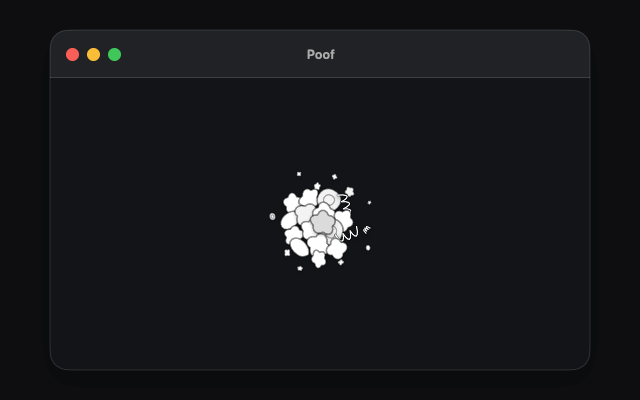
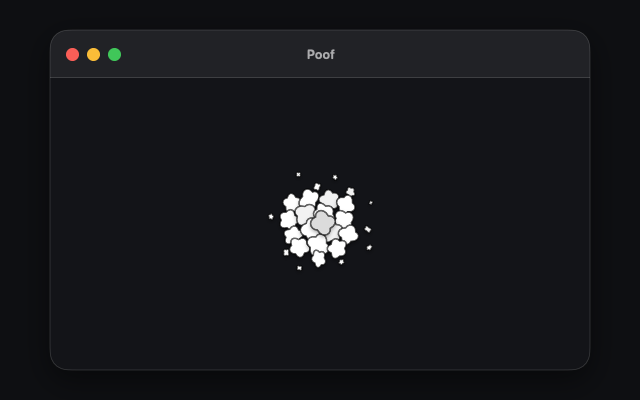
chore: regenerate media and document 1.2.0
The rendering changed, so the committed previews did. A second run of
the generator produces byte-identical output, and the hero GIFs still
hold five poses at the alternating centisecond delays that land on a
third of a second.

The design rules are updated where this release moved them: the pose
rule is scoped to stepped motion and notes that smooth is a continuous
plume rather than those poses interpolated, the determinism rule spells
out that a particle's whole trajectory is a closed form, progressive
removal is described as consuming the source rather than covering it,
Classic is documented as puffs only, and the artwork is required to fit
the canvas it is given even though the originals do not fit theirs. The
stale Drift reference is gone and the four files added since the source
map was last touched are listed.

Changed region(s): [[0.4375, 0.45, 0.5938, 0.66]]

diff --git a/AGENTS.md b/AGENTS.md
@@ -13,10 +13,15 @@ later.
 - Use current SwiftUI APIs. Do not add deprecated AppKit animation APIs,
   private frameworks, UIKit effects, Core Animation emitters, or timers.
 - Preserve the clean-room five-pose sequence: full cloud, four clusters, dense
-  puffs, sparse wisps, then ringlets. Swap poses without interpolation at 15
-  frames per second; one playback lasts exactly one-third of a second.
+  puffs, sparse wisps, then ringlets. Stepped motion swaps poses without
+  interpolation at 15 frames per second and lasts exactly one-third of a
+  second. It is the default and the faithful recreation. Smooth motion is a
+  continuous plume rather than those poses interpolated, and may run to its own
+  duration.
 - Keep `PoofSimulation` based on absolute normalized progress. Progress and the
-  playback seed must fully determine the selected pose and its glyphs.
+  playback seed must fully determine the selected pose and its glyphs. A plume
+  particle's whole trajectory is a closed form in progress, seed, and index;
+  nothing integrates and nothing carries state between frames.
 - Choose optional variation once per playback and apply it coherently to every
   pose. An explicit seed must produce repeatable output. Do not add per-frame
   random generation, `hashValue` seeds, or mutable global state.
@@ -27,15 +32,22 @@ later.
   reference dimension capped at 160 points unless measurements and tests
   justify a change.
 - Keep insertion quiet. The poof is a removal effect.
-- Progressive removal must keep the source intact through the dense poses,
-  carry covered pixels forward between pose swaps, and remove the source only
-  after the puffs cover its bounds.
+- Progressive removal consumes the source where smoke reaches it rather than
+  hiding it behind opaque paint. Bites accumulate, so covered pixels carry
+  forward by construction and a bite is never given back. The source is gone
+  only once the dense pose covers its bounds.
 - Preserve the accessibility paths: Reduce Motion draws no spatial poses;
   Reduce Transparency removes the blurred shadow; Increased Contrast uses
   stronger outlines and detail marks.
-- Keep Classic, Snap, and Drift grayscale. Bloom may use stable pastel fills.
-  Use the same palette in light and dark appearance, with dark outlines and
-  neutral details.
+- Keep Classic and Snap grayscale. Bloom may use stable pastel fills. Use the
+  same palette in light and dark appearance, with dark outlines and neutral
+  details.
+- Draw Classic with puffs only, in both stepped and smooth motion. Every frame
+  of the original is a bumpy multi-lobe puff; rings, curls, and flecks belong
+  to Bloom and Snap. Size carries the dissipation.
+- Fit the artwork to the canvas it is given. The originals run off their own
+  tile; this recreation does not, so ink that reaches past the geometry is
+  budgeted rather than assumed.
 - Keep the drawing canvas hidden from accessibility and hit testing. A view
   being removed must not remain interactive or exposed to accessibility.
 - Do not call private APIs, extract system artwork, copy system sounds, or add
@@ -47,6 +59,14 @@ later.
 - `Sources/Poof/PoofConfiguration.swift`: public density, reach, padding, and
   playback seed settings.
 - `Sources/Poof/PoofStyle.swift`: public opt-in visual styles.
+- `Sources/Poof/PoofMotion.swift`: public stepped and smooth motion.
+- `Sources/Poof/PoofPalette.swift`: public fill palettes.
+- `Sources/Poof/PoofNoise.swift`: counter-based seeded noise shared by the
+  simulation, the plume, and the erosion.
+- `Sources/Poof/PoofPlume.swift`: closed-form continuous smoke for smooth
+  motion.
+- `Sources/Poof/PoofErosion.swift`: the cumulative bites progressive removal
+  takes out of the source.
 - `Sources/Poof/PoofSimulation.swift`: pose selection, seeded breakup
   descriptors, and glyph variation.
 - `Sources/Poof/PoofEffect.swift`: vector paths, palette, and `Canvas`

diff --git a/README.md b/README.md
@@ -28,8 +28,8 @@ the deprecated `NSAnimationEffect` API or ship copied system assets.
 </table>
 
 By default, the animation swaps through five drawn poses at 15 frames per
-second. Smooth interpolation is available when the hard pose changes don't fit
-the interaction. Either mode takes one-third of a second.
+second, one-third of a second in all. Continuous motion is available when the
+hard pose changes don't fit the interaction.
 
 ## Requirements
 
@@ -45,13 +45,13 @@ In Xcode, choose **File → Add Package Dependencies** and enter:
 https://github.com/hksw-io/poof.git
 ```
 
-Set the dependency rule to **Up to Next Major Version** starting at `1.1.0`.
+Set the dependency rule to **Up to Next Major Version** starting at `1.2.0`.
 
 From the root of another Swift package, SwiftPM can add Poof and link its
 library product to a target:
 
 ```sh
-swift package add-dependency https://github.com/hksw-io/poof.git --from 1.1.0
+swift package add-dependency https://github.com/hksw-io/poof.git --from 1.2.0
 swift package add-target-dependency Poof YourTarget --package poof
 ```
 
@@ -63,7 +63,7 @@ For a package manifest, add the package and product dependency:
 dependencies: [
   .package(
     url: "https://github.com/hksw-io/poof.git",
-    from: "1.1.0"
+    from: "1.2.0"
   )
 ],
 targets: [
@@ -167,10 +167,24 @@ RoundedRectangle(cornerRadius: 16)
 Color is always opt-in through `.pastel` or `PoofPalette(colors:)`.
 
 `PoofMotion.stepped` preserves the five hard pose changes at 15 frames per
-second. `.smooth` gives each puff one contour and fill for the full playback,
-moves it along a continuous path, and scales it in or out at a staggered,
-playback-seeded moment. It does not fade or swap puffs mid-flight. Motion choice
-does not change the playback duration.
+second. It is the recreation of the original and the default.
+
+`.smooth` is not those poses interpolated. Each puff is born at its own moment,
+travels its own path, expands as it goes, and thins away rather than shrinking
+out; the poses only decide where puffs start, how large they begin, and in what
+order they arrive. Because continuous smoke spends its last moments thinning,
+`.smooth` reads as clipped at one-third of a second. Pair it with
+`Animation.poof(motion:)` to give it the longer timing it wants, or
+`Animation.poof(duration:)` to choose your own:
+
+```swift
+withAnimation(.poof(motion: .smooth)) {
+  isVisible = false
+}
+```
+
+Bare `.poof` keeps the original one-third-second timing whichever motion you
+pick.
 
 ### Options at a glance
 

diff --git a/CHANGELOG.md b/CHANGELOG.md
@@ -1,6 +1,6 @@
 # Changelog
 
-## Unreleased
+## 1.2.0 - 2026-07-31
 
 ### Changed
 
@@ -42,6 +42,13 @@
   faster, so a list of rows no longer serializes on it.
 - Fixes the media generator failing to resolve outside a directory named
   `poof`, which broke `make check` for release tarballs.
+- Writes documentation stills from the rendered image rather than decoding
+  them back out of the GIF, which had reduced them to as few as 81 colors.
+- Ships the demo's localized strings, which never reached its resource bundle,
+  and routes six status labels through it instead of `Bundle.main`.
+- Stops the demo's button label cross-fading for the whole playback, and
+  enables the Motion picker outside playback, where it still changes what the
+  static poses draw.
 
 ## 1.1.0 - 2026-07-31
 
